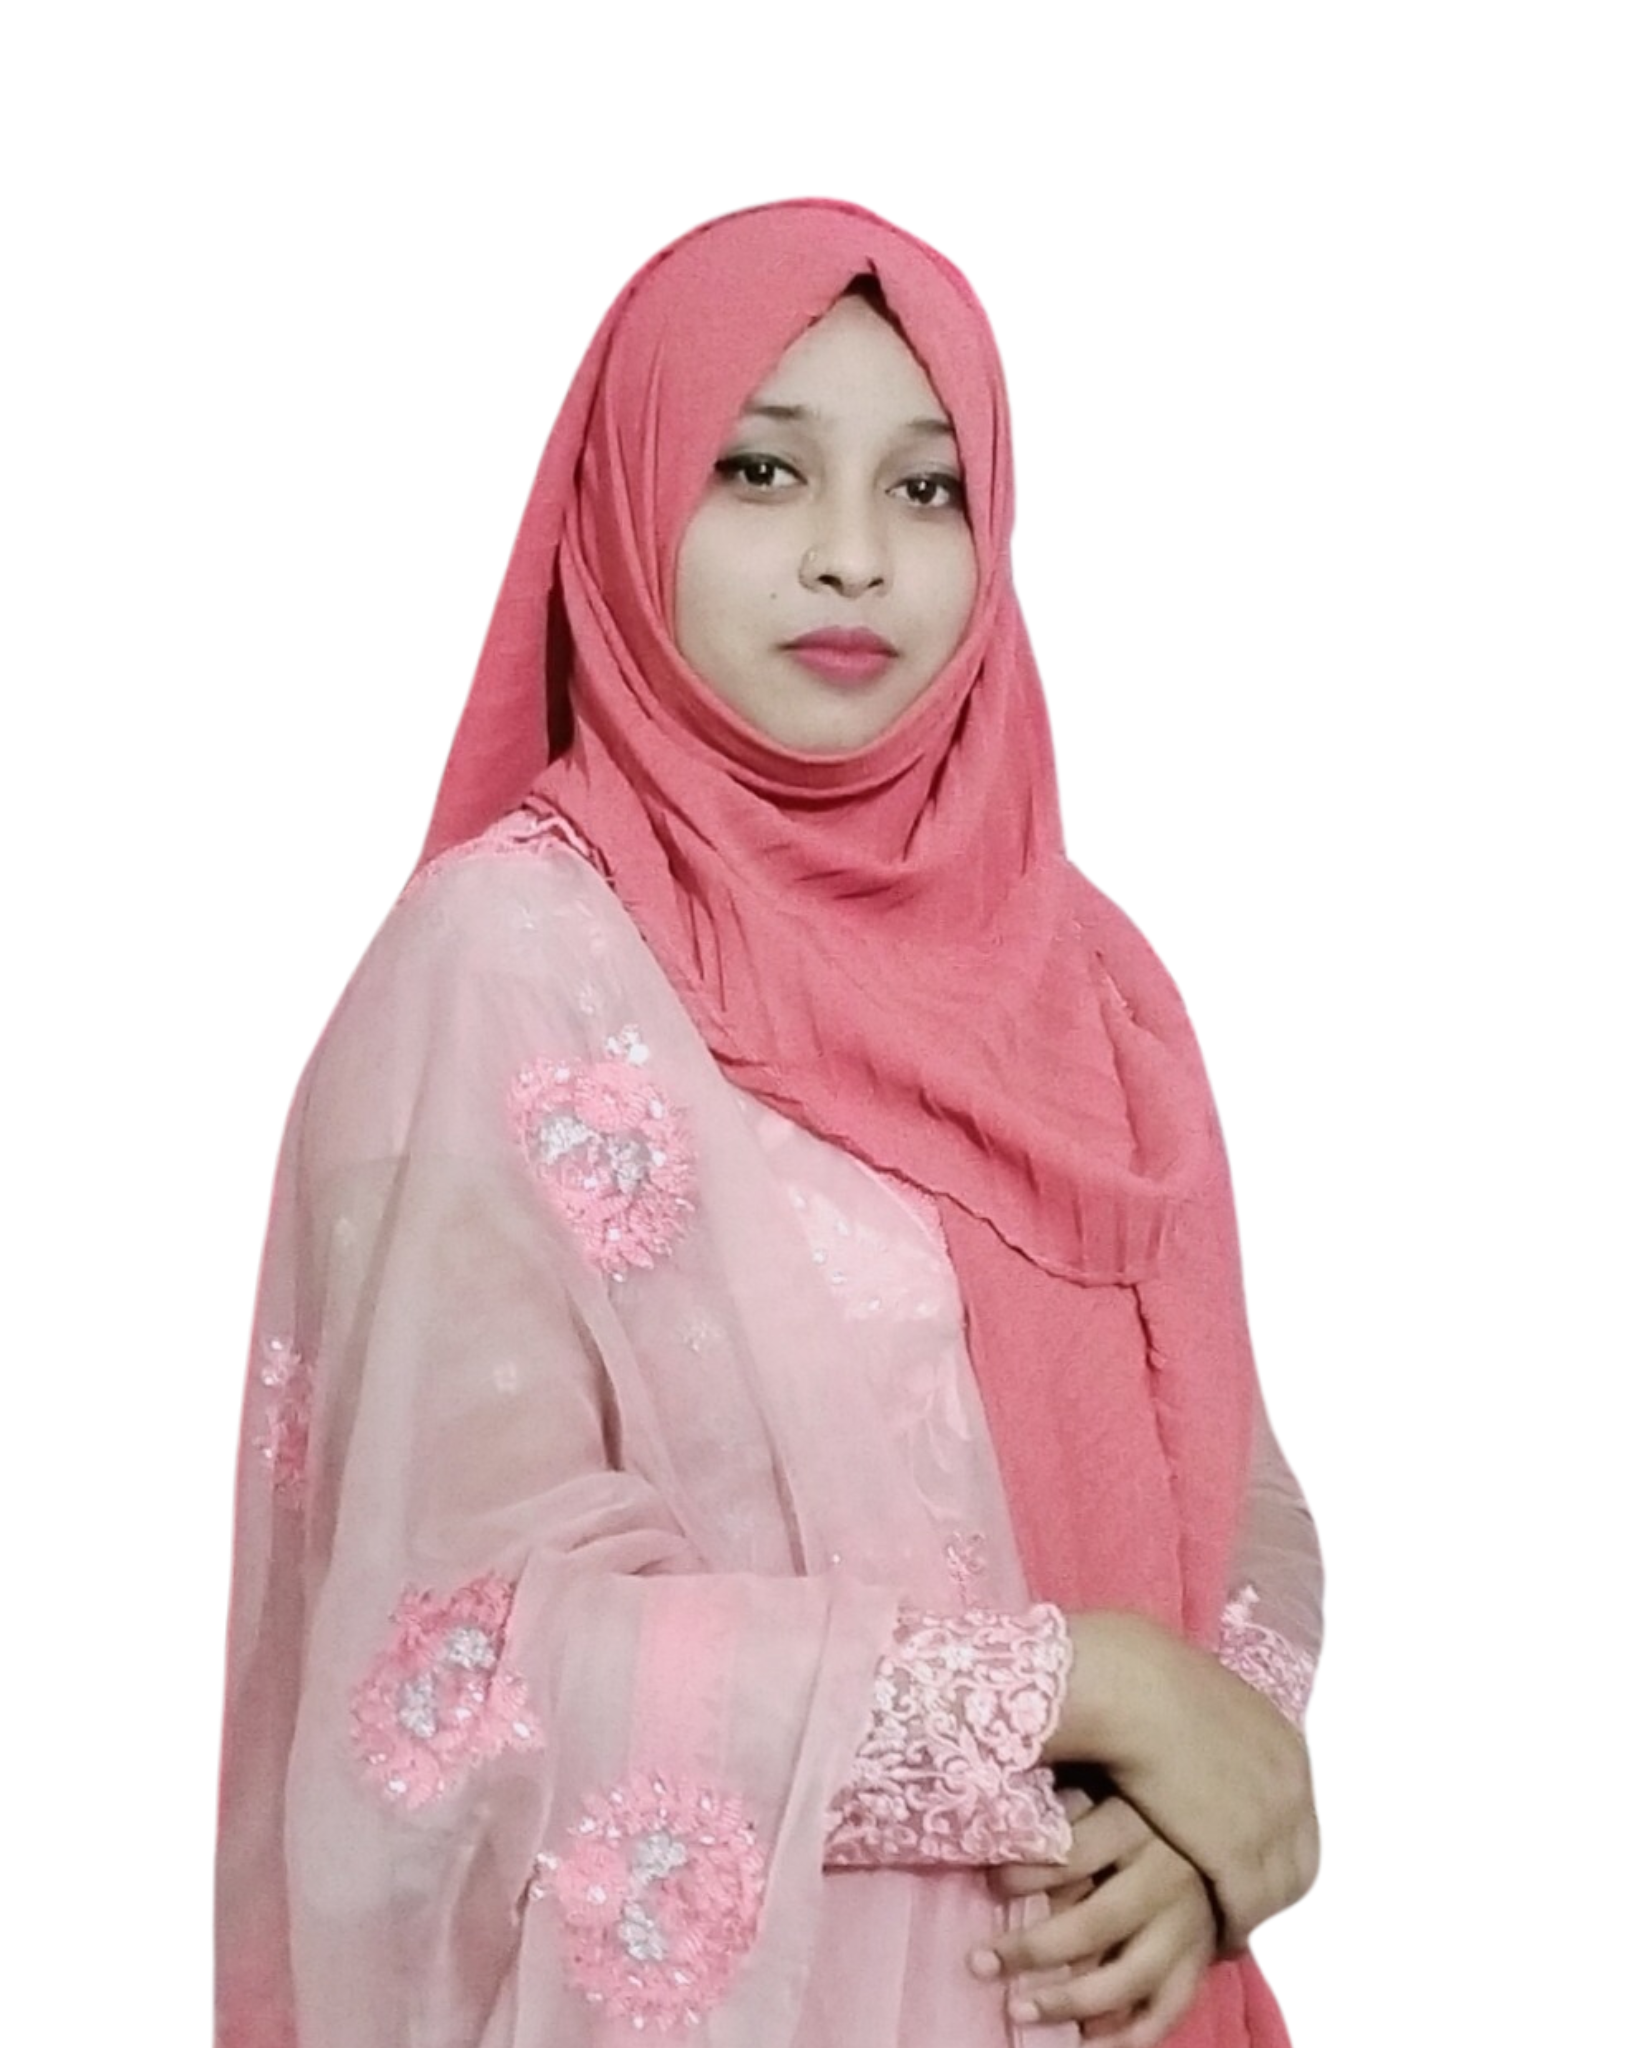
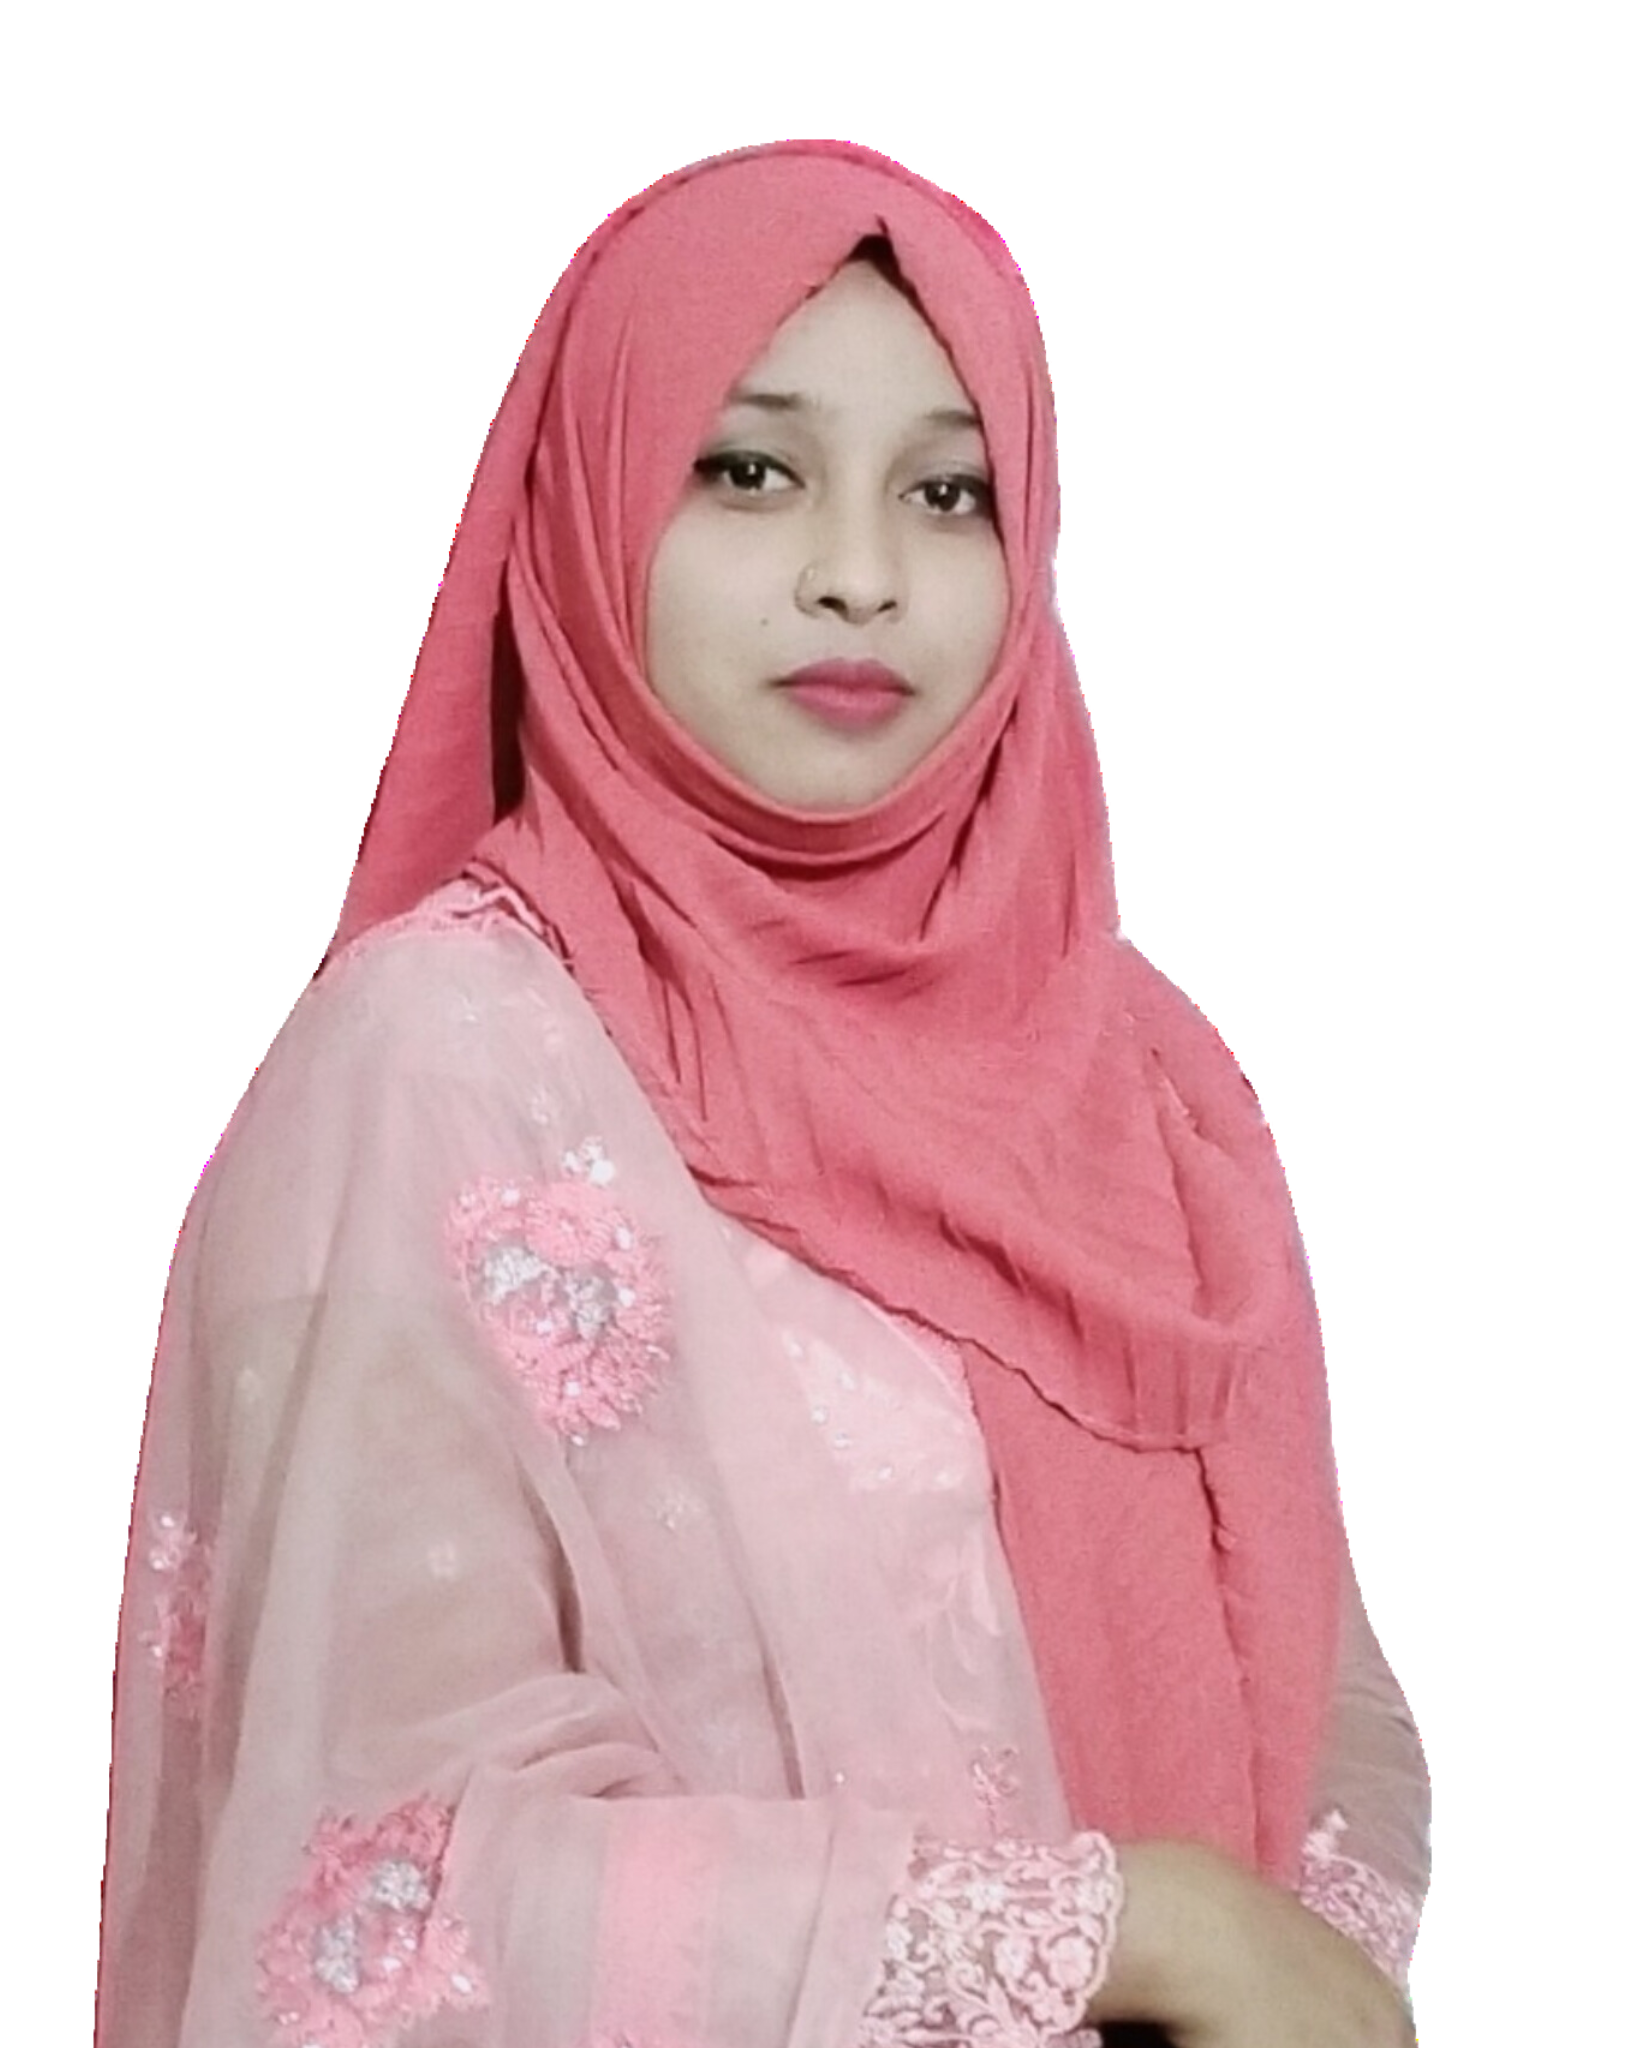
update payment history page

Changed region(s): [[0.0311, 0.0625, 0.8707, 1.0]]

diff --git a/src/pages/Dashboard/UserDashboard/PaymentHistory/PaymentHistory.jsx b/src/pages/Dashboard/UserDashboard/PaymentHistory/PaymentHistory.jsx
@@ -1,7 +1,10 @@
-import DashboardTitle from "../../../../Components/Shared/DashboardTitle/DashboardTitle"
+import DashboardTitle from "../../../../Components/Shared/DashboardTitle/DashboardTitle";
+import useApplication from "../../../../hooks/useApplication";
+import Loading from "../../../../Components/Shared/Loading/Loading";
 
 const PaymentHistory = () => {
-    // Function to format date to AM/PM
+  const [application, , isPending] = useApplication();
+  // Function to format date to AM/PM
   const formatDate = (dateString) => {
     const options = {
       year: "numeric",
@@ -14,11 +17,87 @@ const PaymentHistory = () => {
     const date = new Date(dateString);
     return date.toLocaleString("en-US", options);
   };
+  const paidApplication = application?.filter((app) => app?.fee === "paid");
+  if (isPending) {
+    return <Loading />;
+  }
   return (
     <div>
-         <DashboardTitle title={"Payment History"} />
-    </div>
-  )
-}
+      <DashboardTitle title={"Payment History"} />
+      {
+        paidApplication?.length !== 0 && <h1 className="text-2xl text-center text-white py-5">Total Payment : {paidApplication?.length}</h1>
+      }
+      
+      <div className=" border overflow-x-auto shadow-lg  w-full">
+        <div>
+          <table className="w-full text-center border-collapse capitalize text-darkGreen">
+            <thead className="">
+              <tr className="bg-lightTeal">
+                <th className="border-b py-2 px-2 text-sm text-center md:text-lg whitespace-nowrap text-wrap">
+                  Application Type
+                </th>
+                <th className="border-b py-2 px-2 text-sm text-center md:text-lg whitespace-nowrap text-wrap">
+                  Submission Date
+                </th>
+                <th className="border-b py-2 px-2 text-sm text-center md:text-lg whitespace-nowrap text-wrap">
+                  Payment Status
+                </th>
+                <th className="border-b py-2 px-2 text-sm text-center md:text-lg whitespace-nowrap text-wrap">
+                  Transaction ID
+                </th>
+              </tr>
+            </thead>
+            <tbody>
+              {paidApplication?.length === 0 ? (
+                // No Data Found
+                <tr>
+                  <td
+                    colSpan="9"
+                    className="py-10 text-center text-2xl font-bold text-white"
+                  >
+                    No Data Found...
+                  </td>
+                </tr>
+              ) : (
+                // Table rows for each application
+                <>
+                  {paidApplication
+                    .sort(
+                      (a, b) =>
+                        new Date(b.paymentDate) - new Date(a.paymentDate)
+                    )
+                    .map((app, index) => (
+                      <tr
+                        key={index}
+                        className="hover:bg-darkGreen text-white text-xs md:text-base"
+                      >
+                        <td className="border-b py-2 capitalize">
+                          {app?.certificateType}
+                        </td>
+                        <td className="border-b py-2 capitalize">
+                          {formatDate(app?.paymentDate)}
+                        </td>
 
-export default PaymentHistory
+                        <td className="border-b py-2 capitalize text-center ">
+                          <span
+                            className={`px-2 py-1 rounded-full text-sm flex justify-center items-center`}
+                          >
+                            {app?.fee === "paid" && <p> Paid</p>}
+                          </span>
+                        </td>
+                        <td className="border-b py-2 capitalize">
+                          {app?.paymentId}
+                        </td>
+                      </tr>
+                    ))}
+                </>
+              )}
+            </tbody>
+          </table>
+        </div>
+      </div>
+    </div>
+  );
+};
+
+export default PaymentHistory;

diff --git a/src/utils/team.js b/src/utils/team.js
@@ -16,6 +16,7 @@ import sumaya from '../assets/Team/sumaya.png'
 import Suraiya from '../assets/Team/Suraiya.png'
 import kemi from '../assets/Team/kemi.png'
 import rezia from '../assets/Team/rezia.png'
+import fatiha from '../assets/Team/fatiha.png'
 
 export const teams=[
     {
@@ -204,6 +205,17 @@ export const teams=[
         "skill":"Presentation",
         "image":`${romisa}`,
         "fbLink":"https://www.facebook.com/profile.php?id=100038222978328",
+        "github":"https://github.com/maliate77",
+        "linkedin":"https://www.linkedin.com/in/maliate-ahmed-805113256"
+    },
+    // Fatiha
+    {
+        "_id":'67abcafgtt0617t8b4430e3fb5ffC',
+        "Name":"Umme Fatiha Binte Abdur Rahman",
+        "Email":"fatihar303@gmail.com",
+        "skill":"Testing",
+        "image":`${fatiha}`,
+        "fbLink":"https://www.facebook.com/fatiha.rahman.313?mibextid=ZbWKwL",
         "github":"https://github.com/maliate77",
         "linkedin":"https://www.linkedin.com/in/maliate-ahmed-805113256"
     },
